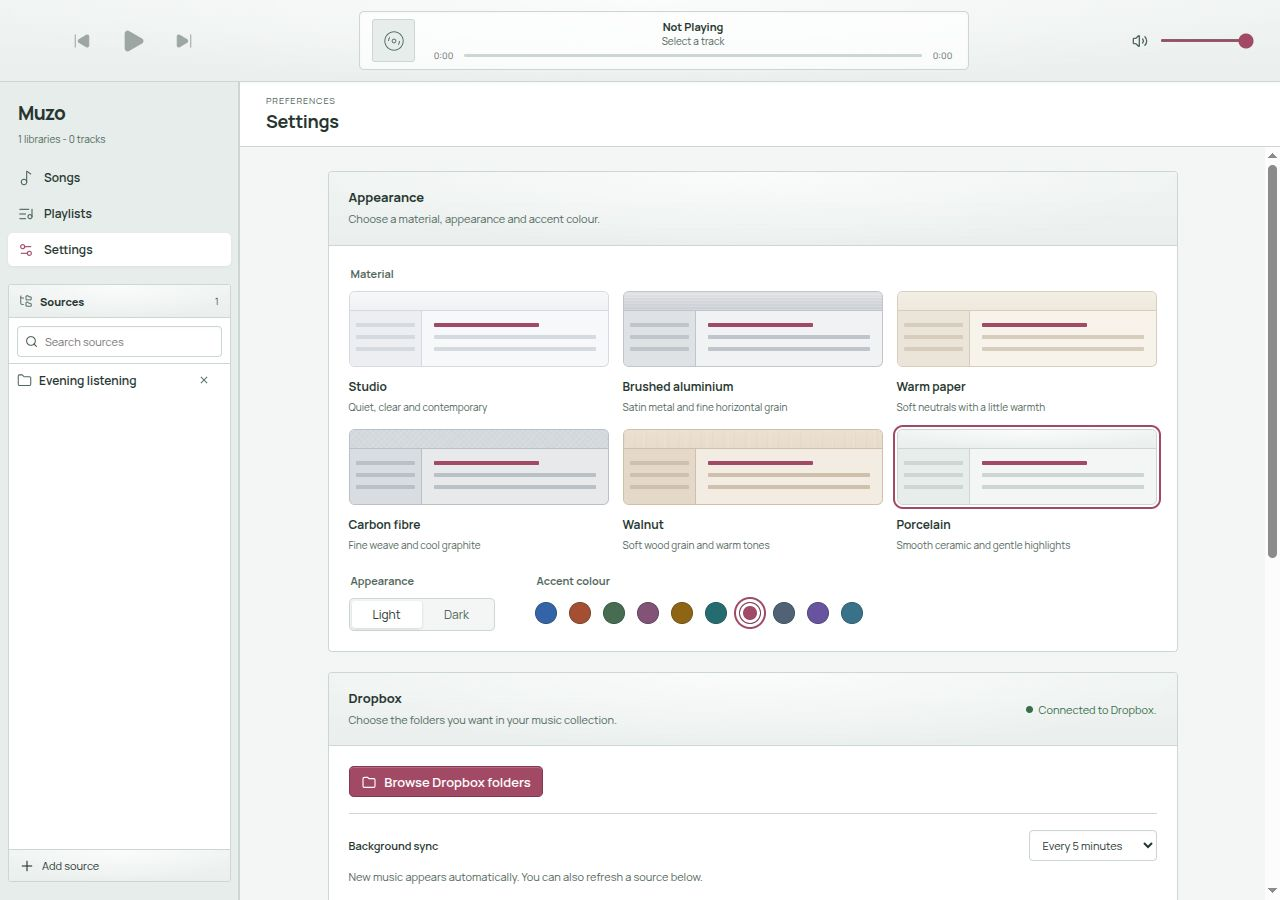
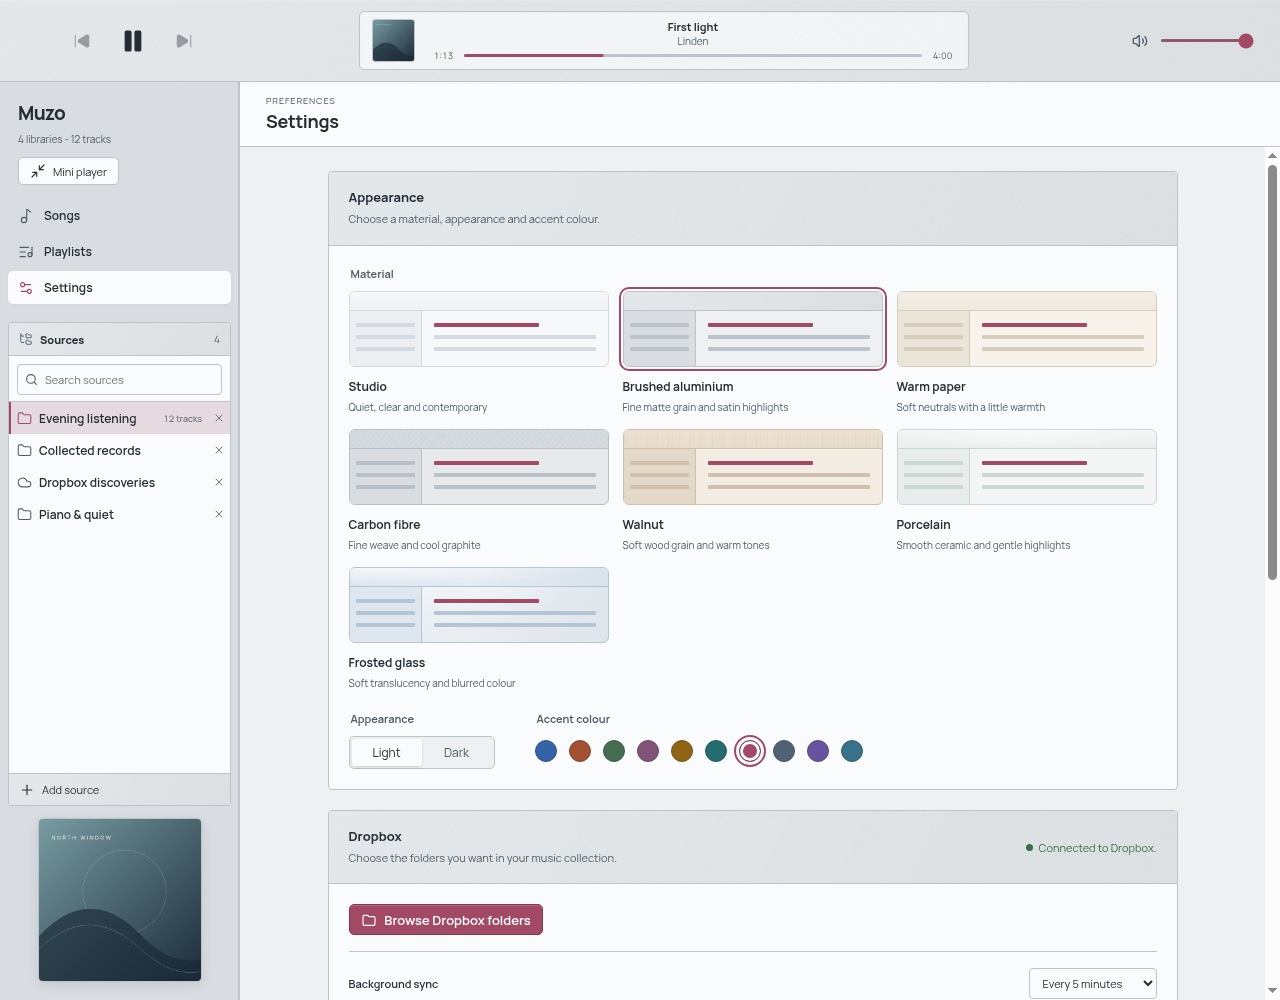
docs(readme): refresh native captures for the current player

diff --git a/docs/screenshots.md b/docs/screenshots.md
@@ -1,28 +1,32 @@
 # Desktop screenshots
 
 `site/public/images/muzo-player.jpg` is shared by the README and the project website.
-It shows the actual React desktop interface at 1440 x 900, using the current
-Brushed aluminium dark material with a Cobalt accent.
+It shows the actual Electron desktop interface at 1440 x 900, using Frosted glass
+dark with a Cobalt accent, the compact-player toggle and full-width source rows.
 
-The capture uses an isolated browser fixture that supplies fictional libraries,
-tracks and playback state through the desktop runtime boundary. The four cover
-designs are original geometric SVG artwork exported to PNG for the app's artwork
-contract. No real audio plays, no Dropbox requests run and no user catalogue,
-credentials, local paths or copyrighted album covers appear in the image.
-This is a product screenshot with demo data, not a mockup of future features.
+Both captures use the maintained native compact-player fixture in an isolated
+Electron profile, with fictional sources/tracks supplied through the runtime
+boundary. The original geometric North Window artwork is decoded through the
+app's normal artwork contract. No real audio plays, no Dropbox requests run and
+no user catalogue, credentials, local paths or copyrighted covers appear.
+These are product screenshots with demo data, not mockups of future features.
 
-`site/public/images/muzo-personalization.jpg` shows the current Settings interface at
-1280 x 900 with Porcelain light and a Rose accent. It was captured from the
-maintained Settings layout fixture with a fictional library and Dropbox status.
+`site/public/images/muzo-personalization.jpg` shows Settings at 1280 x 1000,
+with Brushed aluminium light and a Rose accent. It includes all seven materials,
+ten accents and a fictional connected Dropbox account. The aluminium surface
+uses the reviewed satin finish rather than the old striped texture.
 
-When refreshing these images, use the actual app components and an isolated
-profile or fixture. Select a source and start a demo track so the transport and
-current album sleeve are visible. Keep source names generic, verify every cover
-loads, and capture the viewport without editing the interface or compositing it.
-Use the same canonical image in documentation and on the site.
+When refreshing, use the actual app components and an isolated profile/fixture.
+Select a source and start a demo track so the transport and sleeve are visible.
+Keep names generic, verify every cover loads, and wait for fonts, layout and
+colour transitions to settle. Capture the viewport without editing pixels or
+compositing the interface. Share the same canonical assets in README and site.
 
 The listening capture includes Card 038's seek-focus correction: a pointer click
-at 1:15 keeps the control focused without a blue rectangle. Keyboard focus remains
-visible. Files retain the browser capture's native JPEG encoding and dimensions.
-The public/ directory follows Vite's unchanged-asset convention, so sharing-image
-URLs remain stable after site builds.
+at 1:13 keeps the control focused without a blue rectangle. Keyboard focus remains
+visible. Files retain Electron capturePage's native JPEG encoding/dimensions.
+Vite's public/ unchanged-asset convention keeps sharing-image URLs stable.
+
+These refreshed captures reflect the combined preview of cards 040, 041, 042
+and 045 (compact player, satin aluminium, Frosted glass and full-width rows).
+Merge those feature PRs before the site that advertises this current interface.

diff --git a/README.md b/README.md
@@ -4,7 +4,7 @@ A desktop music player built with [Electron](https://www.electronjs.org/), React
 
 Muzo treats your music collection as a set of **libraries** and **playlists**. A library is a source of truth for tracks - either a folder on your local filesystem or a Dropbox location. Libraries are scanned recursively and kept in sync with their source as files are added, changed, or removed.
 
-![Muzo playing a fictional collection in Brushed aluminium dark with a Cobalt accent](./site/public/images/muzo-player.jpg)
+![Muzo playing a fictional collection in Frosted glass dark with a Cobalt accent](./site/public/images/muzo-player.jpg)
 
 *The current desktop interface, shown with fictional tracks and original demo artwork.*
 
@@ -18,7 +18,7 @@ Run it from source with the quick start below; packaged downloads are not publis
 - Searchable, resizable Sources and Playlists panels, with source removal controls.
 - Playlist playback queues, metadata editing and play counts.
 - Embedded album artwork with a persistent local cache.
-- Six materials, light and dark appearances, and ten accent colours.
+- Seven materials, light and dark appearances, and ten accent colours.
 
 The screenshot reflects the current development UI. See
 [`docs/cards/`](./docs/cards) for completed work and remaining cards.

diff --git a/docs/cards/sprint-02/036-readme-desktop-showcase.md b/docs/cards/sprint-02/036-readme-desktop-showcase.md
@@ -28,3 +28,12 @@ The current capture uses that fix and lives in the future Vite public/ asset
 directory with its native .jpg extension. Source art remains original PNG demo
 art, while the viewport capture itself is JPEG. Application checks now total 338
 tests on the included fix; the original 337-test baseline above is historical.
+
+## Current integrated capture refresh
+
+The native Electron captures now reflect the combined preview of cards 040, 041,
+042 and 045: mini-player control, satin aluminium, seven materials including
+Frosted glass and source rows that reach the panel edge. The listening image is
+1440 x 900 Glass dark/Cobalt; Settings is 1280 x 1000 Aluminium light/Rose.
+The canonical files remain shared with the site; no image retouching is used.
+The application changes stay in their own PRs, which must merge before Site #66.
